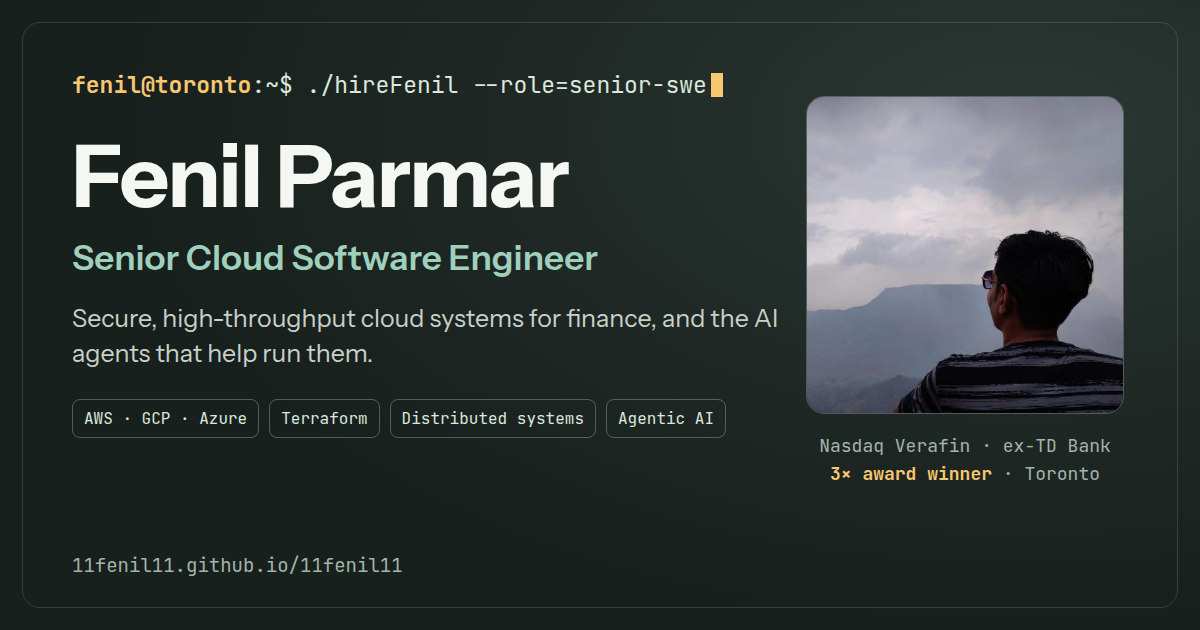
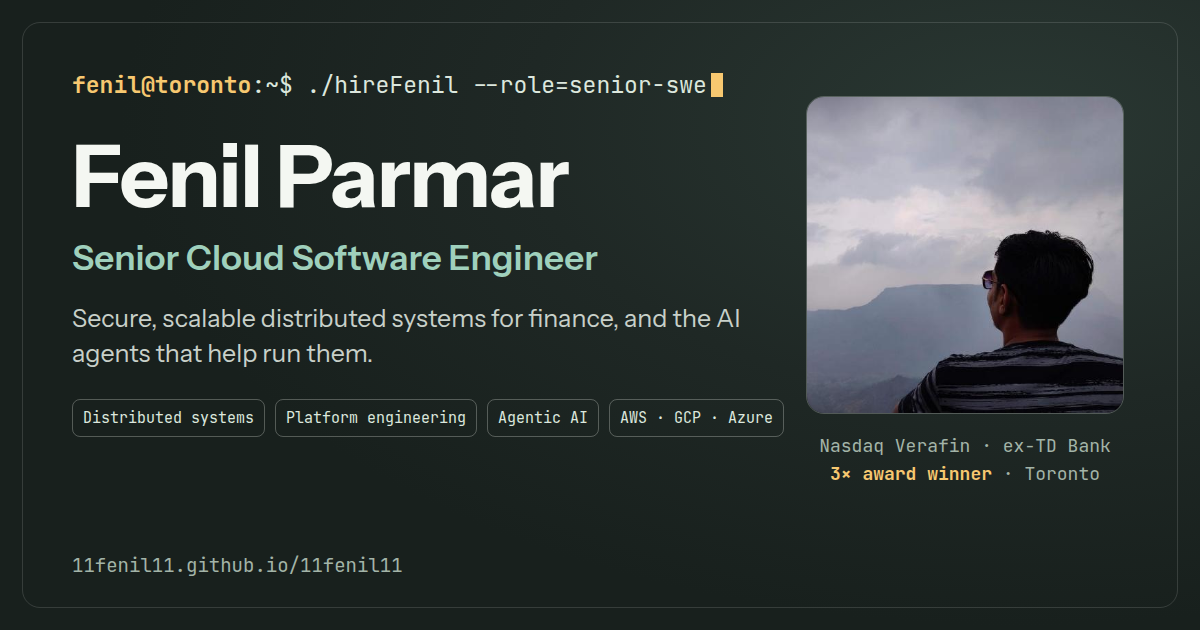
Add core strengths and build-process sections with role keywords
Adds a "core strengths" section (distributed systems design, scaling and
load balancing, multi-region cloud, platform engineering and IaC, agentic
AI and multi-agent LLM systems, data pipelines, testing and safe delivery,
security, reliability, technical leadership) in plain first-person
sentences with keyword tags.

Replaces the engineering-overview principles with a design, build, test,
deploy, scale, operate loop and adds a services and APIs layer to the
stack diagram. Rewrites the hero, experience summaries and toolbox around
the same keywords, lists target roles in the contact panel, and updates
the meta description, JSON-LD topics and the link-preview card.

Everything stays high level: no client names, internal project names or
work metrics.

Claude-Session: https://claude.ai/code/session_01Ah2biXj9DBsWeNqcpehC15

Changed region(s): [[0.0617, 0.6333, 0.6475, 0.6937], [0.1233, 0.4825, 0.6475, 0.5429]]

diff --git a/docs/assets/css/site.css b/docs/assets/css/site.css
@@ -515,6 +515,7 @@ html:not(.js) .theme-toggle,
 
 .headline {
   font-size: clamp(2rem, 4vw, 3.6rem);
+  text-wrap: balance;
   letter-spacing: -0.01em;
   line-height: 1.06;
   margin: 0 0 18px;
@@ -765,7 +766,7 @@ html:not(.js) .theme-toggle,
   margin: 0 0 14px;
 }
 
-.principles {
+.steps {
   display: grid;
   gap: 10px;
   list-style: none;
@@ -773,23 +774,90 @@ html:not(.js) .theme-toggle,
   padding: 0;
 }
 
-.principles li {
+.steps li {
   background: var(--panel);
   border: 1px solid var(--border);
   border-radius: var(--radius);
+  display: grid;
+  gap: 12px;
+  grid-template-columns: auto minmax(0, 1fr);
   padding: 12px 14px;
 }
 
-.principles strong {
+.step-num {
+  color: var(--gold);
+  font-family: var(--mono);
+  font-size: 0.85rem;
+  font-variant-numeric: tabular-nums;
+  font-weight: 700;
+  line-height: 1.55;
+}
+
+.steps strong {
   display: block;
   font-size: 0.95rem;
   margin-bottom: 2px;
 }
 
-.principles span {
+.step-text {
   color: var(--text-soft);
+  display: block;
   font-size: 0.9rem;
   line-height: 1.55;
+}
+
+/* core strengths: one panel, two columns of capabilities */
+
+.strengths {
+  background: var(--panel);
+  border: 1px solid var(--border);
+  border-radius: var(--radius);
+  display: grid;
+  grid-template-columns: repeat(2, minmax(0, 1fr));
+  overflow: hidden;
+}
+
+.strength {
+  border-top: 1px solid var(--border);
+  min-width: 0;
+  padding: 16px 18px;
+}
+
+.strength:nth-child(-n + 2) {
+  border-top: 0;
+}
+
+.strength:nth-child(odd) {
+  border-right: 1px solid var(--border);
+}
+
+.strength h3 {
+  align-items: center;
+  display: flex;
+  font-size: 1rem;
+  gap: 9px;
+  line-height: 1.35;
+  margin: 0;
+}
+
+.strength h3::before {
+  background: var(--gold);
+  border-radius: 2px;
+  content: "";
+  flex: none;
+  height: 7px;
+  width: 7px;
+}
+
+.strength p {
+  color: var(--text-soft);
+  font-size: 0.93rem;
+  line-height: 1.6;
+  margin: 6px 0 0;
+}
+
+.strength .tags {
+  margin-top: 10px;
 }
 
 .stack {
@@ -841,6 +909,10 @@ html:not(.js) .theme-toggle,
 
 .layer[data-tone="green"] {
   --tone: var(--green);
+}
+
+.layer[data-tone="red"] {
+  --tone: var(--red);
 }
 
 .layer-head {
@@ -1239,6 +1311,7 @@ p.note {
 
 .cta h2 {
   color: #f4f7f2;
+  text-wrap: balance;
   font-size: clamp(1.4rem, 2.6vw, 2rem);
   margin: 4px 0 0;
 }
@@ -1247,6 +1320,39 @@ p.note {
   color: var(--term-fg);
   margin: 0;
   max-width: 820px;
+}
+
+.roles {
+  display: grid;
+  gap: 8px;
+  margin-top: 4px;
+}
+
+.roles-label {
+  color: var(--term-hi);
+  font-family: var(--mono);
+  font-size: 0.74rem;
+  font-weight: 700;
+  letter-spacing: 0.05em;
+  text-transform: uppercase;
+}
+
+.roles ul {
+  display: flex;
+  flex-wrap: wrap;
+  gap: 8px;
+  list-style: none;
+  margin: 0;
+  padding: 0;
+}
+
+.roles li {
+  border: 1px solid var(--term-line);
+  border-radius: var(--radius);
+  color: var(--term-fg);
+  font-size: 0.84rem;
+  line-height: 1.2;
+  padding: 6px 10px;
 }
 
 .cta .links {
@@ -1501,6 +1607,12 @@ html:not(.js) .result-count {
 
 /* ---------- responsive ---------- */
 
+@media (max-width: 1080px) {
+  .prompt-args {
+    display: none;
+  }
+}
+
 @media (max-width: 1040px) {
   /* 3 + 2 layout: six tracks, the last two tiles take three each. */
   .stats {
@@ -1597,6 +1709,18 @@ html:not(.js) .result-count {
 
   .stack {
     grid-template-columns: 1fr;
+  }
+
+  .strengths {
+    grid-template-columns: 1fr;
+  }
+
+  .strength:nth-child(odd) {
+    border-right: 0;
+  }
+
+  .strength:nth-child(2) {
+    border-top: 1px solid var(--border);
   }
 }
 
@@ -1752,6 +1876,7 @@ html:not(.js) .result-count {
   .prompt,
   .term span,
   .rail li,
+  .roles li,
   .cta p,
   .cta .cmd {
     color: #222222 !important;
@@ -1760,6 +1885,7 @@ html:not(.js) .result-count {
   .prompt strong,
   .term strong,
   .rail strong,
+  .roles-label,
   .cta .cmd strong,
   .cta h2 {
     color: #000000 !important;

diff --git a/docs/index.html b/docs/index.html
@@ -49,6 +49,24 @@ body_class: home
   </ul>
 </section>
 
+<section class="section" id="strengths" aria-labelledby="strengths-title">
+  <div class="section-head">
+    <h2 id="strengths-title">// core strengths</h2>
+    <span class="meta">what I bring to senior, lead &amp; staff roles</span>
+  </div>
+  <div class="strengths">
+    {%- for s in site.data.strengths %}
+    <article class="strength">
+      <h3>{{ s.title }}</h3>
+      <p>{{ s.text }}</p>
+      <ul class="tags" aria-label="Keywords">
+        {%- for t in s.tags %}<li>{{ t }}</li>{% endfor -%}
+      </ul>
+    </article>
+    {%- endfor %}
+  </div>
+</section>
+
 <section class="section" id="experience" aria-labelledby="experience-title">
   <div class="section-head">
     <h2 id="experience-title">// experience</h2>
@@ -93,16 +111,17 @@ body_class: home
 
 <section class="section" id="approach" aria-labelledby="approach-title">
   <div class="section-head">
-    <h2 id="approach-title">// engineering overview</h2>
+    <h2 id="approach-title">// how I build systems</h2>
+    <span class="meta">design → build → test → deploy → scale → operate</span>
   </div>
   <div class="overview">
     <div class="overview-copy">
       <p>{{ o.intro }}</p>
-      <ul class="principles">
-        {%- for pr in o.principles %}
-        <li><strong>{{ pr.title }}</strong><span>{{ pr.text }}</span></li>
+      <ol class="steps">
+        {%- for step in o.steps %}
+        <li><span class="step-num" aria-hidden="true">{{ forloop.index | prepend: '0' | slice: -2, 2 }}</span><div><strong>{{ step.title }}</strong><span class="step-text">{{ step.text }}</span></div></li>
         {%- endfor %}
-      </ul>
+      </ol>
     </div>
     <figure class="stack">
       <figcaption><span>// layers I build across</span><span>security wraps every layer</span></figcaption>
@@ -264,6 +283,14 @@ body_class: home
     <p class="cmd"><strong>{{ p.prompt_user }}@{{ p.prompt_host }}</strong>:~$ {{ p.contact.command }}</p>
     <h2 id="contact-title">{{ p.contact.heading }}</h2>
     <p>{{ p.contact.text }}</p>
+    {%- if p.contact.roles %}
+    <div class="roles">
+      <span class="roles-label">{{ p.contact.roles_label }}</span>
+      <ul>
+        {%- for r in p.contact.roles %}<li>{{ r }}</li>{% endfor -%}
+      </ul>
+    </div>
+    {%- endif %}
     <div class="links">
       <a class="btn primary" href="mailto:{{ p.email }}?subject=Hello%20Fenil">{% include icon.html name="mail" %}{{ p.email }}</a>
       <button class="btn copy-email" type="button" data-email="{{ p.email }}">{% include icon.html name="copy" %}<span aria-live="polite">Copy email</span></button>

diff --git a/docs/_includes/shell.html b/docs/_includes/shell.html
@@ -5,6 +5,7 @@
 <header class="shell">
   <a class="prompt" href="{{ home }}" aria-label="{{ p.name }}, home"><strong>{{ p.prompt_user }}@{{ p.prompt_host }}</strong>:<span class="tilde">~</span>$ {{ cmd_first }}<span class="prompt-args">{{ cmd_rest }}</span><span class="cursor" aria-hidden="true"></span></a>
   <nav class="nav" aria-label="Main">
+    <a href="{{ home }}#strengths">Strengths</a>
     <a href="{{ home }}#experience">Experience</a>
     <a href="{{ home }}#work">Work</a>
     <a href="{{ '/projects/' | relative_url }}"{% if page.url == '/projects/' %} aria-current="page"{% endif %}>Projects</a>

diff --git a/docs/_includes/head.html b/docs/_includes/head.html
@@ -70,7 +70,7 @@
     {{ l.url | jsonify }}{% unless forloop.last %},{% endunless %}
     {%- endfor %}
   ],
-  "knowsAbout": ["Cloud infrastructure", "Infrastructure as code", "Terraform", "Amazon Web Services", "Google Cloud", "Microsoft Azure", "Distributed systems", "Apache Spark", "Agentic AI", "Python", "Java", "Kubernetes"]
+  "knowsAbout": {{ p.knows_about | jsonify }}
 }
 </script>
 {%- endif %}

diff --git a/docs/README.md b/docs/README.md
@@ -14,7 +14,8 @@ Every word on the site comes from `_data/`. Edit a file on github.com, commit, a
 
 | File | What it controls |
 | --- | --- |
-| `profile.yml` | Name, headline, intro, links, the "open to roles" badge, stats, contact section |
+| `profile.yml` | Name, headline, intro, links, the "open to roles" badge, stats, contact section and target roles, search keywords |
+| `strengths.yml` | "Core strengths": one plain sentence per capability, with keyword tags |
 | `experience.yml` | Work history, kept high level on purpose (no resume bullets, metrics or client names) |
 | `education.yml` | Degrees |
 | `projects.yml` | Project cards. `placement: featured` or `selected` puts a project on the home page |
@@ -22,7 +23,7 @@ Every word on the site comes from `_data/`. Edit a file on github.com, commit, a
 | `awards.yml` | Awards, hackathons and competitions |
 | `timeline.yml` | Dated highlights (supports `**bold**`) |
 | `skills.yml` | Toolbox |
-| `overview.yml` | The "engineering overview" principles and stack diagram |
+| `overview.yml` | "How I build systems": the design-to-operate steps and the stack diagram |
 
 Common changes:
 
